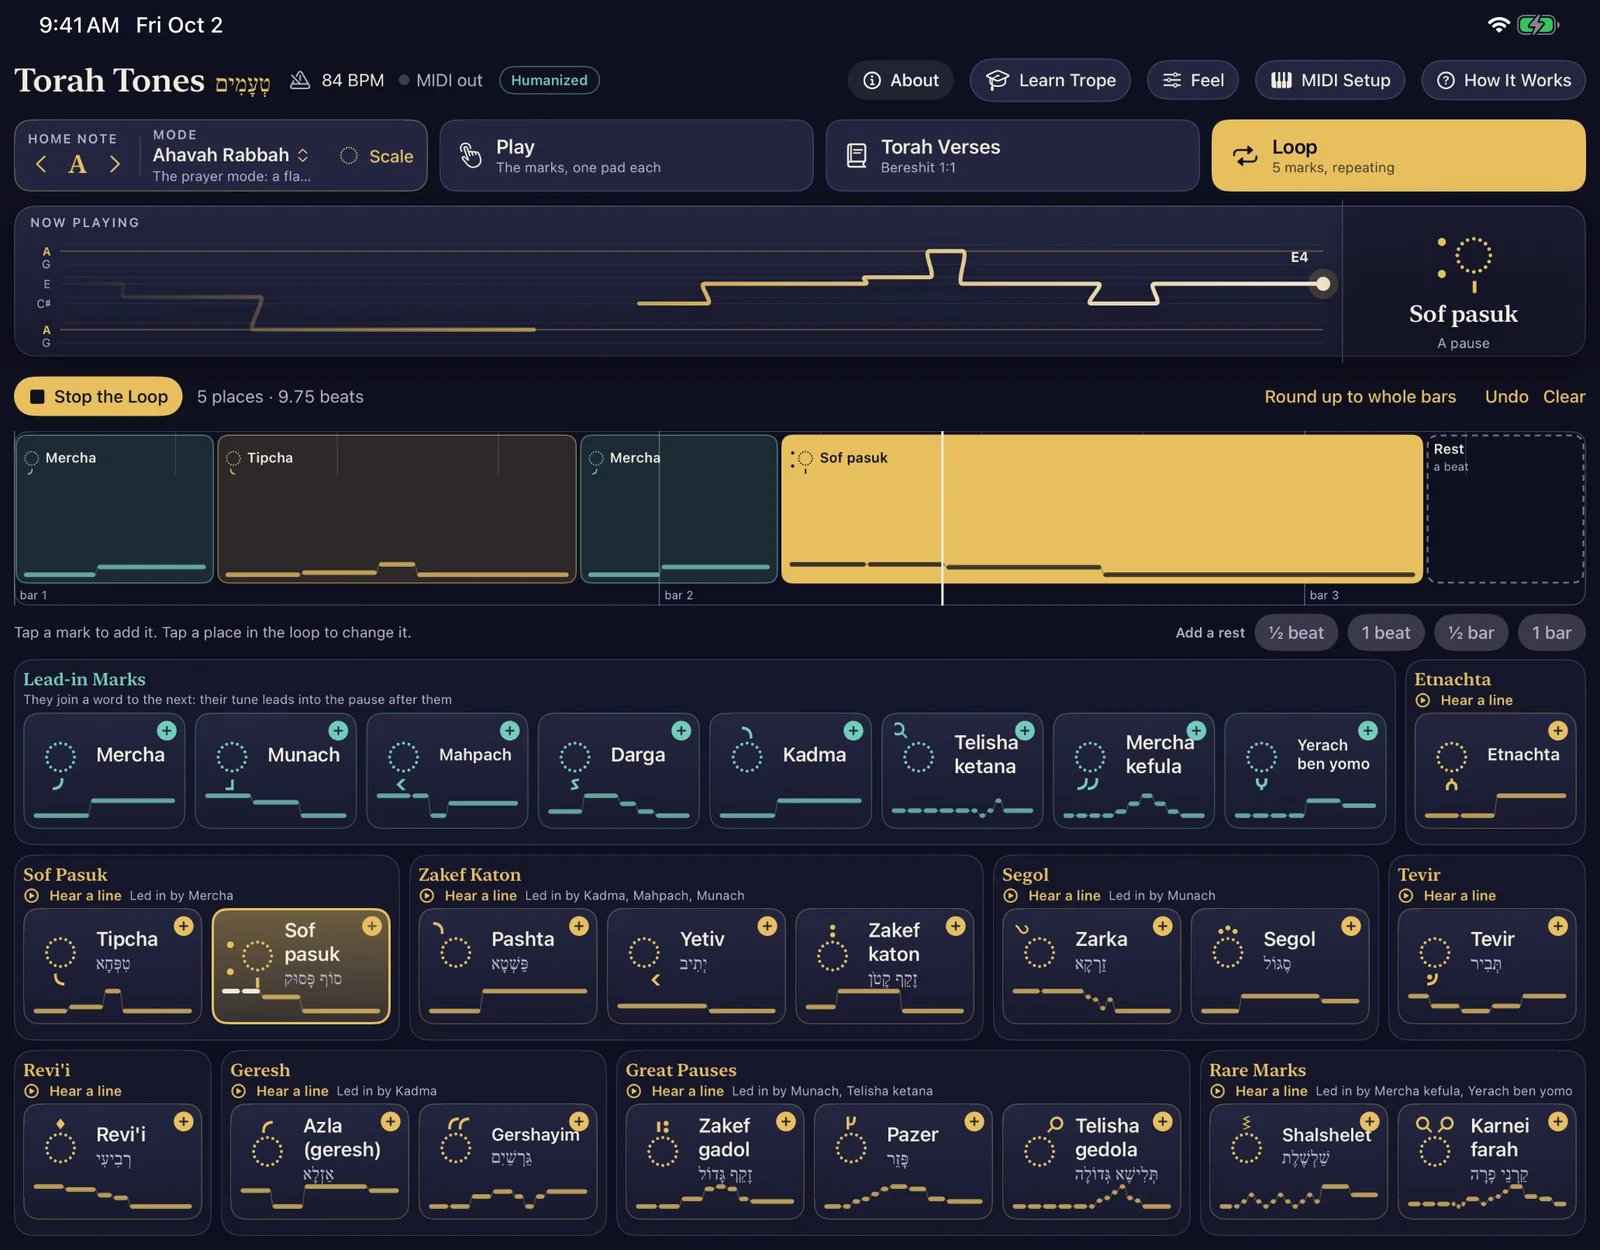
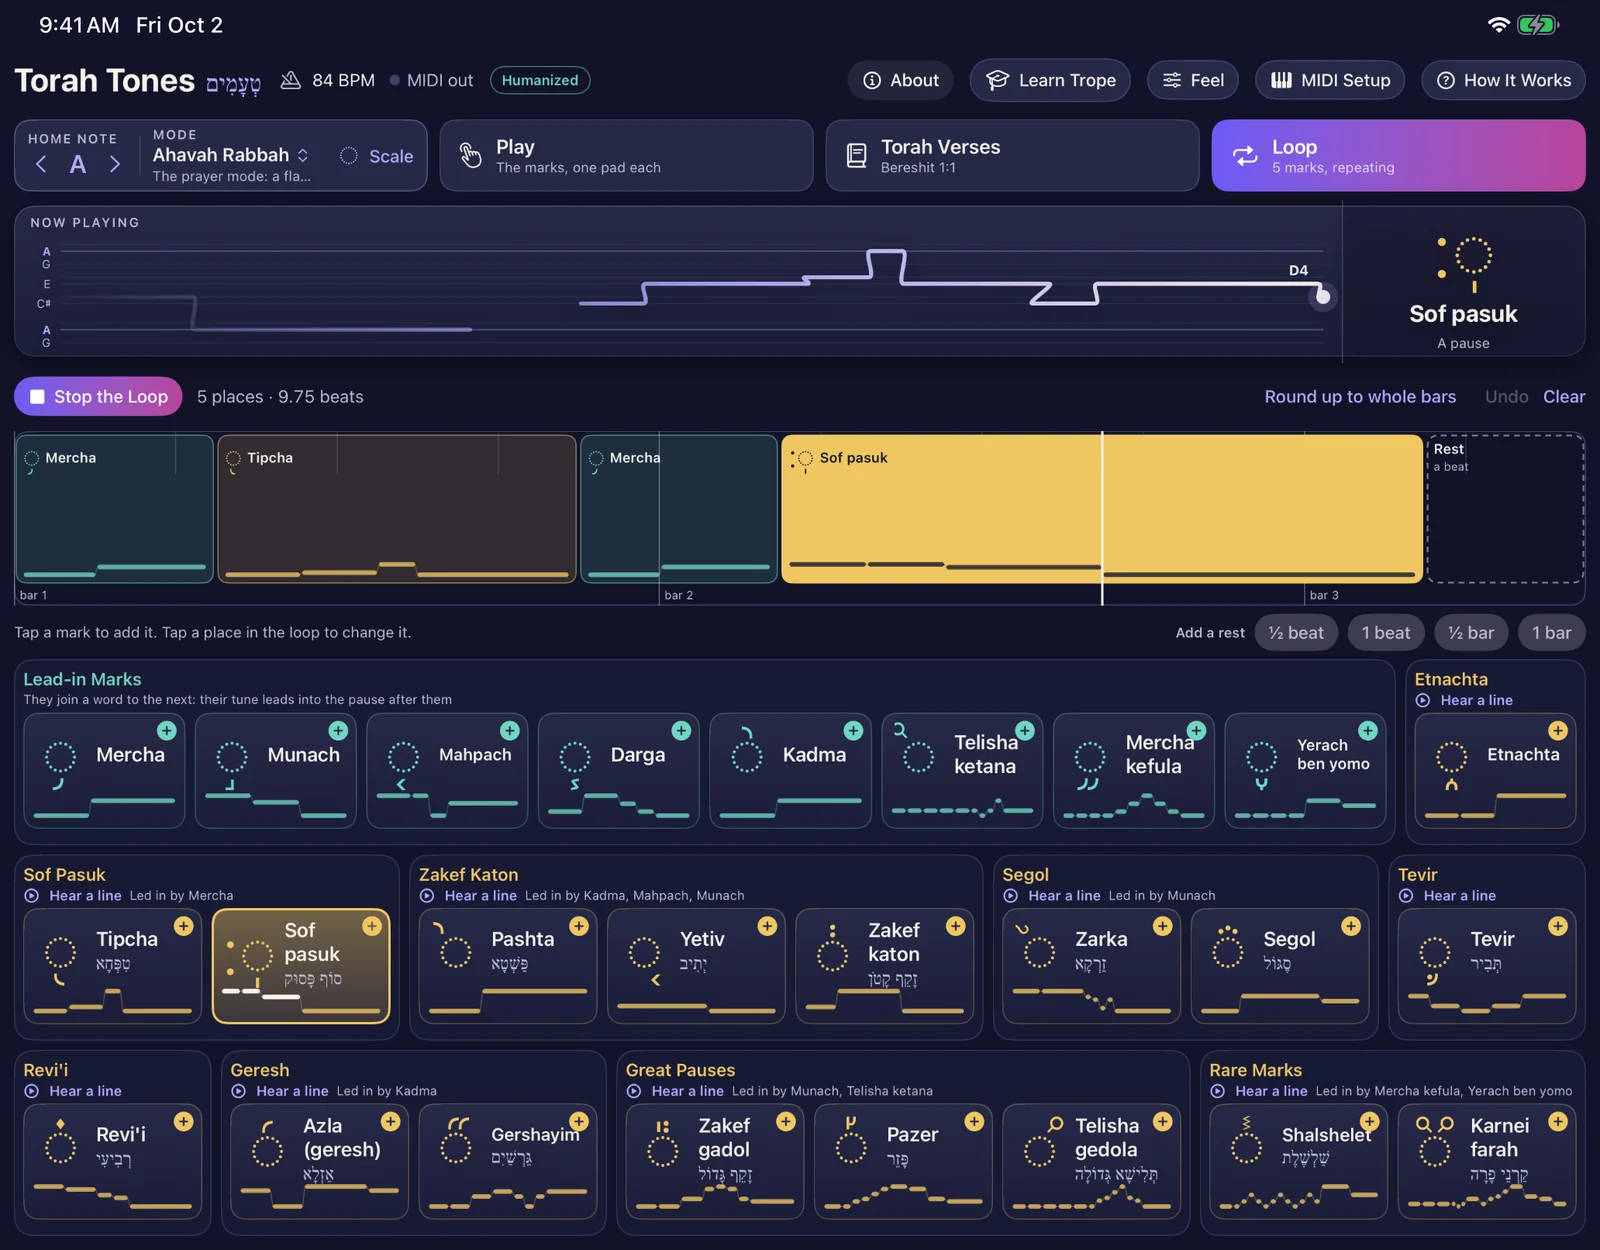
Build 11 screenshots: new accent colours

diff --git a/index.html b/index.html
@@ -36,38 +36,38 @@
       <a class="store-badge" data-store-live hidden href="#" aria-label="Download Torah Tones on the App Store"><picture><source srcset="img/app-store-badge-white.svg" media="(prefers-color-scheme: dark)"><img src="img/app-store-badge-black.svg" alt="Download on the App Store" width="132" height="44"></picture></a>
       <span class="soon" data-store-soon>Coming to the App Store</span>
   </div>
-  <div class="hero-shot"><img src="img/hero-ipad.webp" alt="Torah Tones on iPad: a loop of four phrases playing, with the 25 phrase pads below" width="1600" height="1250"></div>
+  <div class="hero-shot"><img src="img/hero-ipad.webp?v=3" alt="Torah Tones on iPad: a loop of four phrases playing, with the 25 phrase pads below" width="1600" height="1250"></div>
 </section>
 
 <div id="features"></div>
 <section class="feature violet">
   <div class="text"><p class="label">Phrase pads</p><h2>25 phrases. One pad, one key each.</h2><p>Every pad fires a short melodic phrase, with its shape drawn right on the pad. Play them from the screen or from your keyboard, starting at C3, one key per phrase. Chain a few and they queue up in time, so a handful of keys plays a whole line.</p><ul><li>Phrases wait their turn, or cut each other off</li><li>The next phrase can start right away, on the next beat, or on the next bar line</li><li>Hold a key to sustain the phrase's first note, then let go for the rest</li><li>41 ready-made example lines, one tap each</li></ul></div>
-  <div class="pic"><img src="img/play-pads.webp" alt="The 25 phrase pads, grouped by family, with Sof pasuk playing" loading="lazy" width="1400" height="727"></div>
+  <div class="pic"><img src="img/play-pads.webp?v=3" alt="The 25 phrase pads, grouped by family, with Sof pasuk playing" loading="lazy" width="1400" height="727"></div>
 </section>
 
 <section class="feature gold flip">
   <div class="text"><p class="label">Any key, any mode</p><h2>Change key mid-take. Every phrase follows.</h2><p>Each phrase is stored as scale steps, not fixed notes, so it re-sings itself in whatever key and mode you choose: Major, Minor, Dorian, Lydian, Harmonic Minor, the traditional sound, and two Jewish prayer modes with an exotic flat 2nd, Ahavah Rabbah and Mi Sheberach.</p><ul><li>Change key live with your left hand: one note sets the root, a chord sets major or minor too</li><li>Add a harmony line inside the mode, on its own MIDI channel</li><li>A drone on the root and fifth that follows every key change</li></ul></div>
-  <div class="pic"><img src="img/key.webp" alt="The key wheel, with A Ahavah Rabbah chosen" loading="lazy" width="1400" height="817"></div>
+  <div class="pic"><img src="img/key.webp?v=3" alt="The key wheel, with A Ahavah Rabbah chosen" loading="lazy" width="1400" height="845"></div>
 </section>
 
 <section class="feature pink">
   <div class="text"><p class="label">Loop</p><h2>Build a loop in a few taps</h2><p>Tap phrases and rests to lay out a loop, then let it run with your host's transport, locked to its bars. It starts over the moment its last note ends, or rounds up to whole bars if you'd rather.</p><ul><li>Rests from half a beat to a bar</li><li>Tap any slot to move it, hear it, swap it or remove it</li></ul></div>
-  <div class="pic"><img src="img/loop.webp" alt="A loop of Mercha, Tipcha, Mercha, Sof pasuk and a rest, playing" loading="lazy" width="1400" height="387"></div>
+  <div class="pic"><img src="img/loop.webp?v=3" alt="A loop of Mercha, Tipcha, Mercha, Sof pasuk and a rest, playing" loading="lazy" width="1400" height="387"></div>
 </section>
 
 <section class="feature teal flip">
   <div class="text"><p class="label">Feel</p><h2>Played, not programmed</h2><p>Humanize the timing, velocity and note lengths. Add rubato that leans into the end of each phrase, and grace notes like a singer's. Flip phrases upside down or play them backwards, at half or double speed, for variations that still sound like they belong.</p></div>
-  <div class="pic narrow"><img src="img/feel.webp" alt="The Feel settings: timing, humanize and melody shape" loading="lazy" width="1000" height="1202"></div>
+  <div class="pic narrow"><img src="img/feel.webp?v=3" alt="The Feel settings: timing, humanize and melody shape" loading="lazy" width="1000" height="1202"></div>
 </section>
 
 <section class="feature gold">
   <div class="text"><p class="label">The source</p><h2>Or play the real thing: any verse of the Torah</h2><p>Pick a book, chapter and verse, and Torah Tones sends the actual chanted passage as MIDI, word by word, each phrase fitted to its syllables, while the Hebrew lights up as it goes. Play it all in time, step through it one word per key press, or loop it on your bar line.</p><ul><li>All Five Books, by chapter and verse or by weekly portion</li><li>English under every verse</li></ul></div>
-  <div class="pic"><img src="img/verses.webp" alt="Genesis 1:1 to 1:3 being sent as MIDI, one word lit" loading="lazy" width="1400" height="634"></div>
+  <div class="pic"><img src="img/verses.webp?v=3" alt="Genesis 1:1 to 1:3 being sent as MIDI, one word lit" loading="lazy" width="1400" height="634"></div>
 </section>
 
 <section class="feature violet flip">
   <div class="text"><p class="label">New to trope?</p><h2>What you're playing</h2><p>Almost every word of the Hebrew Bible carries a tiny mark called a trope, and each mark stands for a short melody. Chanted in a row, they turn the text into music, and synagogues have sung them this way for well over a thousand years. Learn Trope explains it in seven short steps, with a button to hear every mark.</p><p>Want to learn to chant it yourself? <a href="https://torahturnit.com/">Torah: Turn It</a>, from the same maker, teaches it lesson by lesson.</p></div>
-  <div class="pic narrow"><img src="img/learn.webp" alt="The Learn Trope page" loading="lazy" width="1000" height="1202"></div>
+  <div class="pic narrow"><img src="img/learn.webp?v=3" alt="The Learn Trope page" loading="lazy" width="1000" height="1202"></div>
 </section>
 
 <section class="hosts">
